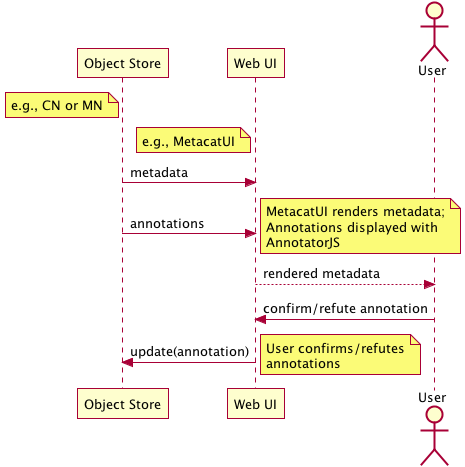
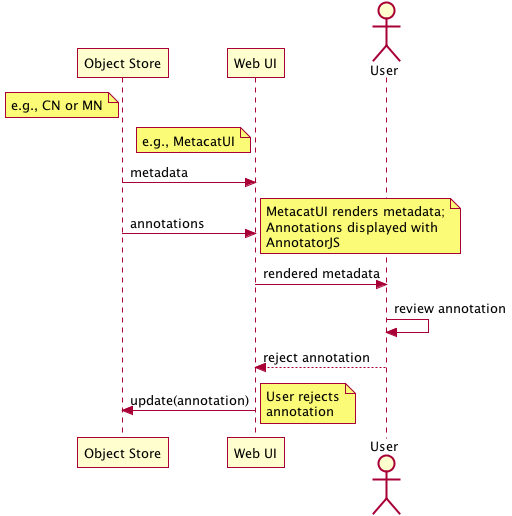
update existing use cases to reflect discussion at today's sem-prov meeting.

diff --git a/docs/use-cases/semantics/use-case-52.rst b/docs/use-cases/semantics/use-case-52.rst
@@ -2,27 +2,34 @@
 DataONE Use Case 52 (Semantic search)
 ==========================================
 
-Searches for DataONE-hosted data packages that match semantic concepts
------------------------------------------------------------------------
+Searches for DataONE-hosted data packages that match semantic measurement concepts
+----------------------------------------------------------------------------------
 
 Revisions
 ---------
 2014-10-07: Created
+2014-10-13: Updated to reflect discussion at weekly meeting
 
 Goal
 ----
-Query for datapackages using semantic concepts.
+Query for datapackages using semantic measurement concepts about characteristics and standards.
 
 Scenario
 --------
 In addition to querying for datapackages using keywords and coverage information, users will be able to query 
-datapackages that include measurements matching desired concepts for Characteristics and Standards.
+datapackages that include measurement annotations matching desired concepts for Characteristics and Standards.
+
 
 Summary
 -------
 Additional query facets will be specified just like keywords, but will support more precise matches as well as 
-subclass matching when the query specifices a broader concept.
+subclass matching when the query specifies a broader concept. For example, a query for the characteristic concept
+of "Mass" would return datapackages that were annoted as either having "WetMass" or "DryMass".
 
+Typically, a user will select a concept from a list of available concepts. These could be displayed in a flat list or
+using a tree structure so that relationships between parent and children are easily seen. In prior iterations of these
+types of interfaces, it has been useful to show the hierarchical context for concepts and whether or not we have content 
+for any one of those concepts shown.
 
 Sequence Diagram
 ----------------
@@ -37,10 +44,26 @@ Sequence Diagram
 		note left of index: e.g., SOLR
 	  	note left of webui: e.g., MetacatUI
 		
-		webui --> ontrepo: getConcepts()
+		user --> webui: enter text
+		note right
+			User begins by entering
+			text for the concept of interest
+		end note
+		webui --> ontrepo: getConcepts(text)
+		note left
+			Query the ontology
+			repository for measurement
+			concepts that may match the
+			entered text
+		end note
 		ontrepo --> webui: concepts	
-		user --> webui: select concept	  
-		webui -> index: query()
+		user --> webui: select concept
+		note right
+			User selects one of the
+			suggested concepts
+
+		end note	  
+		webui -> index: query(concept)
 		index -> webui: search results
 		note right
 		  	query against
@@ -59,20 +82,28 @@ Actors
 ------
 * Discovery Index
 * Ontology repository
-* web UI for issuing query and displaying results
+* web UI for selecting concepts, issuing query, and displaying results
 
 Preconditions
 -------------
 * Semantic annotations for the datapackage identifier must be present in the discovery index
-* Concepts must to search by must be available somewhere (e.g., BioPortal)
+* Concepts to search by must be available somewhere (e.g., BioPortal)
 
 Postconditions
 --------------
 * Query results returned by datapackage identifier, minimally.
 
+Sample Queries
+---------------
+TODO: sample semantic queries should be shared here.
 
 Notes
 -----
+The current implementation plan - using the SOLR index for semantic queries - does not allow the user to specify 
+[Characteristic AND Standard] for a single attribute. So in datapackages with attributes that match either of those
+criteria we will get what loks like an odd result (Characteristic: Height AND Standard: Gram).
+
+Support for querying entity is not planned (e.g., no "Height of a Tree" criteria).
 
 Use Case Implementation Examples
 --------------------------------

diff --git a/docs/use-cases/semantics/use-case-51.rst b/docs/use-cases/semantics/use-case-51.rst
@@ -8,6 +8,7 @@ User edits or adds annotations to DataONE-hosted data packages
 Revisions
 ---------
 2014-10-07: Created
+2014-10-13: Updated to reflect discussion at weekly meeting
 
 Goal
 ----
@@ -15,14 +16,15 @@ Using a web UI, a user can add or edit annotations about the measurement charact
 
 Scenario
 --------
-When viewing metadata for existing data packages, a user can select concepts from one [or more?] ontologies that describe the measurement 
+When viewing metadata for existing data packages, a user can easily and clearly select concepts from one [or more?] ontologies that describe the measurement 
 characteristics (e.g., Temperature) and standards (e.g., Celsius) used. These concepts are the body of the annotations.
 
 Summary
 -------
-The user may wish to confirm or refute the automatically generated annotations (see UC 50). This is similar to authoring annotations
-from scratch, but will hopefully be easier since we can constrain the list of possible concepts using recommendations from the ontology repository
-given values from our existing metadata descriptions of the attributes.
+The user may add annotations from scratch or edit an existing one. 
+If we can constrain the list of possible concepts using recommendations from the ontology repository
+given values from our existing metadata descriptions of the attributes it could be helpful, but not necessarily required especially if the UI for selecting 
+concepts is easy to navigate.
 
 
 Sequence Diagram
@@ -77,18 +79,27 @@ Preconditions
 -------------
 * Datapackages with attribute-level metadata needs to be registered in DataONE network
 * The user must have read-access to the metadata
-* The user must have write access to the object in order to approve or remove recommended annotations
+* The user must have write access to update annotations
 * The user must have write access to the CN/MN to save annotations
 
 Postconditions
 --------------
 * The new/updated annotations are stored on the Coordinating Node.
-* The annotations are marked as being updated and verified by the user as applicable
-* Existing annotations share the same permissions as the metadata upon which they are based.
-* New annotations have all permission for the creator, read-only access for everyone else. Other options TBD.
+* The annotations are marked as being created/edited by the user as applicable
+* Annotation permission options:
+	* share the same permissions as the metadata upon which they are based
+	* have all permission for the creator, read-only access for everyone else
 
 Notes
 -----
+We anticipate annotations be added by these three types of users:
+* original datapackage owner ("owner")
+* some other user of the system, perhpas someone who has used the data in their own research and would like to 
+clarify the attribute-level metadata ("3rd party")
+* the automated annotator process ("annotation generator")
+
+The UI for selecting concepts needs to clearly show differences in concepts, espically for MsTMIP concepts that are similar but cann differ in 
+subtle ways.
 
 Use Case Implementation Examples
 --------------------------------

diff --git a/docs/use-cases/semantics/use-case-53.rst b/docs/use-cases/semantics/use-case-53.rst
@@ -1,28 +1,29 @@
 
-DataONE Use Case 53 (Confirm Annotation)
+DataONE Use Case 53 (Reject Annotation)
 ==========================================
 
-Owner confirms or refutes an annotation
+Owner rejects an annotation made by other person/process
 --------------------------------------------------------------
 
 Revisions
 ---------
 2014-10-08: Created
+2014-10-13: Updated to reflect discussion at weekly meeting
 
 Goal
 ----
-Using a web UI, a user can confirm or refute existing annotations that were added either by a 3rd party or an automatic annotation process.
+Using a web UI, a user can reject annotations that were added either by a 3rd party or an automatic annotation process which are believed to
+be erroneous.
 
 Scenario
 --------
-The owner of a given data package should have the ability to mark automatic annotations as correct (or incorrect) when reviewing the results of
+The owner of a given data package should have the ability to mark automatic annotations incorrect when reviewing the results of
 automatic annotations.
-Similarly, annotations from colleagues and other parties should be subject to the same review. TBD: reviews and comments about the quality of the data
-rather than just the semantic concepts contained.
+Similarly, annotations from colleagues and other parties should be subject to the same review.
 
 Summary
 -------
-
+If an owner sees a incorrect annotation, they can mark it (reject it) at which point it should no longer inform query results.
 
 Sequence Diagram
 ----------------
@@ -43,12 +44,13 @@ Sequence Diagram
 	  	Annotations displayed with
 	  	AnnotatorJS
 	  end note
-	  webui --> user: rendered metadata	  
-	  user -> webui: confirm/refute annotation
+	  webui -> user: rendered metadata
+	  user -> user: review annotation	  
+	  user --> webui: reject annotation
 	  webui -> store: update(annotation)
 	  note right
-	  	User confirms/refutes
-	  	annotations
+	  	User rejects
+	  	annotation
 	  end note
     @enduml
    
@@ -63,16 +65,19 @@ Actors
 Preconditions
 -------------
 * Datapackages with attribute-level metadata need to be registered in DataONE network
-* The user must have write access to the object in order to approve or remove recommended annotations
+* The user must have write access to the object in order to reject recommended/3rd-party annotations
 * The user must have write access to the CN/MN to update annotations
 
 Postconditions
 --------------
 * The updated annotations are stored on the Coordinating Node.
-* The annotations are marked as being updated and verified by the user as applicable
+* The annotations are marked as being rejected by the owner as applicable
 
 Notes
 -----
+This is a simplified approach to our intitial "confirm or refute annotation" plan. Until explicitly marked as incorrect,
+all current annotations will be used to populate the search index for discovery. Ultimately, the owner of the original data package
+has the final say in what is correct when it comes to annotations in the system.
 
 Use Case Implementation Examples
 --------------------------------

diff --git a/docs/use-cases/semantics/use-case-54.rst b/docs/use-cases/semantics/use-case-54.rst
@@ -8,6 +8,7 @@ Conflicting annotations are shown to users
 Revisions
 ---------
 2014-10-08: Created
+2014-10-13: Updated to reflect discussion at weekly meeting
 
 Goal
 ----
@@ -17,61 +18,41 @@ Scenario
 --------
 When multiple users or processes are generating annotations about the same objects, conflicting perspectives may arise.
 Some conflicts are corrections to erroneous annotations. Others are subtle differences in interpretation. 
-We can certainly show the conflicts, but it's unclear how to resolve those that are completely incongruent (who wins?).
+We can certainly show the conflicts, but we leave conflict resolution up to the owner.
 
 Summary
 -------
+We see the original data package owner (SystemMetadata.rightsHolder) as having authority over the annotations 
+that apply to the package for discovery purposes. The owner can always reject suggested annotations.
 
+When multiple conflicting annotations arise, this is the order of authority when we interpret them:
+
+1. Owner
+2. 3rd party
+3. automated annotator
+ 
 
 Sequence Diagram
 ----------------
-.. 
-    @startuml images/uc_54_seq.png 
-	  participant "Ontology repository" as ontrepo
-	  participant "Annotation analyzer" as autoann
-	  participant "Object Store" as store 
-		
-	  note left of ontrepo: e.g., BioPortal
-	  note left of autoann: TBD
-	  note left of store: e.g., CN or MN
-			  
-	  autoann -> store: getAnnotations(id)
-	  note right
-	  	retrieve existing
-	  	annotations for existing 
-	  	metadata id
-	  end note
-	  store -> autoann: annotations
-	  
-	  autoann -> autoann: analyze annotation  	  
-	  autoann -> ontrepo: compare concepts
-	  ontrepo -> autoann: congruent?
-	  autoann -> store: record annotation conflicts
-	  note left
-	  	Save results in some format?
-	  	As annother annotation?
-	  end note
-    @enduml
-   
-.. image:: images/uc_54_seq.png
+
 
 Actors
 ------
-* Annotation analyzer
 * Member Node/Coordinating Node
-* web UI for rendering metadata + annotation conflicts
+* web UI for rendering metadata + annotations (even if they conflict)
 
 Preconditions
 -------------
 * Datapackages with attribute-level metadata need to be registered in DataONE network
-* Annotation analyzer must have read access to annotations and ontologies they reference (for inference)
+* All current (not obsoleted/archived) annotations are available for an object/resource
 
 Postconditions
 --------------
-* Conflicting annotations are identified (perhaps with another annotation? TBD)
+* Multiple annotations are shown in the UI, but indicate where they came from and what their status is (e.g., rejected?)
 
 Notes
 -----
+This isn't so much a use case as simply laying out the interpretation rules when multiple annotations exist on a resource.
 
 Use Case Implementation Examples
 --------------------------------

diff --git a/docs/use-cases/semantics/use-case-50.rst b/docs/use-cases/semantics/use-case-50.rst
@@ -8,6 +8,7 @@ Measurement Characteristics and Standards can be assigned automatically using ex
 Revisions
 ---------
 2014-10-07: Created
+2014-10-13: Updated to reflect discussion at weekly meeting
 
 Goal
 ----
@@ -23,7 +24,11 @@ provide more precise query results while also expanding our query criteria to in
 Summary
 -------
 Using natural language to do a "first pass" at assigning semantic annotations will help organize our holdings and [hopefully] provide better search recall.
-This can be done on existing "legacy" content as well as on any new incoming data packages. Perhaps at the discretion of the MN that contributes the objects?
+This can be done on existing "legacy" content as well as on any new incoming data packages. Perhaps at the discretion of the MN that contributes the objects.
+
+Initially, we will target a focused set of data packages in order to evaluate the efficacy of adding automated annotations. Probably SBC-LTER primary production data.
+This is intended more as an internal validation step and not so much the end-game for automatic annotation. Ideally, we will automate annotations for all content,
+assuming we have appropriate ontologies from which to select concepts.
 
 
 Sequence Diagram
@@ -71,15 +76,20 @@ Actors
 
 Preconditions
 -------------
-* Datapackages with attribute-level metadata need to be registered in DataONE network
-* The annotation generator must have read-access to the metadata
-* The annotation generator must have write access to the CN/MN store. TBD.
+* Datapackages with attribute-level metadata need to be registered in DataONE network.
+	* Either as raw metadata (requires annotator to parse various metadata formats)
+	* Attribute metadata as exposed in the existing DataONE SOLR index. If done as-is, we loose the structural source of the attribute information
+	(first data table, third column).
+* The annotation generator must have read-access to the metadata. 
+	* public documents, of course
+	* private documents, as well (run the annotator as admin role that has access to all content).
+* The annotation generator must have write access to the CN/MN store.
 
 Postconditions
 --------------
 * The generated annotations are stored on the Coordinating Node.
 * The annotations are marked as being created by the automatic process.
-* The annotations share the same permissions as the metadata upon which they are based.
+* The annotations share the same permissions as the metadata upon which they are based (editable by the original document owner).
 
 Notes
 -----
